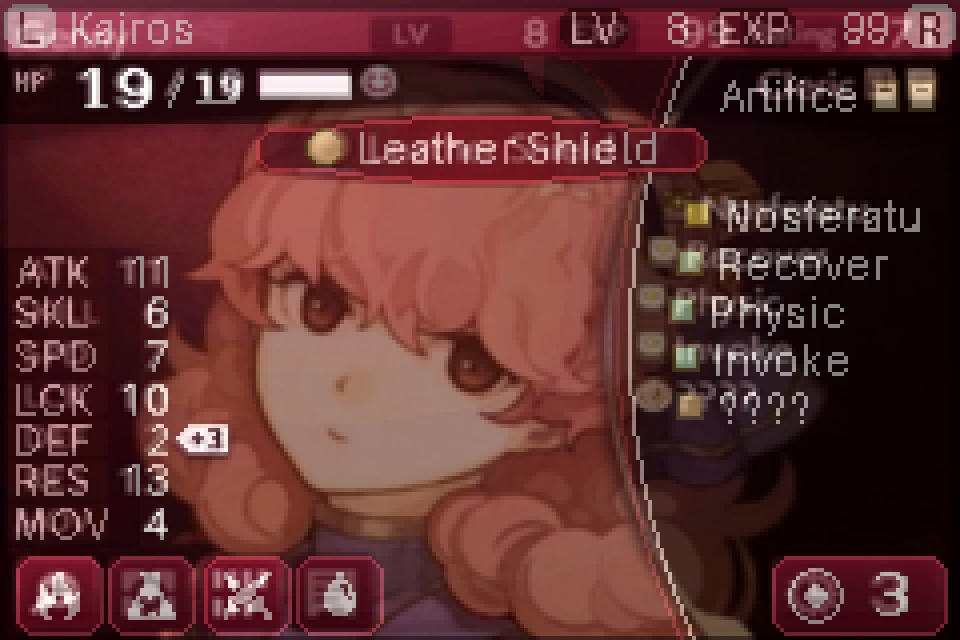
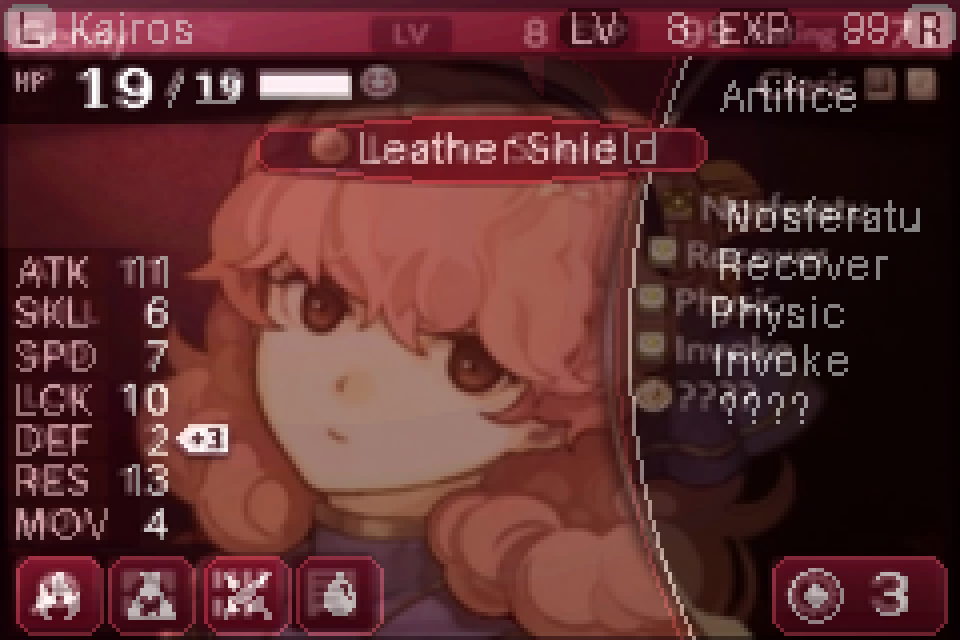
Marcar placeholders de iconos (SIN_ICONOS) y README
Claude-Session: https://claude.ai/code/session_01C4QAM7MwvCQVjJLG12SBSt

Changed region(s): [[0.6875, 0.3125, 0.75, 0.6562], [0.9062, 0.125, 1.0, 0.1875], [0.3125, 0.1875, 0.375, 0.2812]]

diff --git a/gba_status/generar.py b/gba_status/generar.py
@@ -119,7 +119,12 @@ tinta(48, 19, "19", ImageFont.truetype("/usr/share/fonts/truetype/dejavu/DejaVuS
 for i in range(4): d.line([(45 - i, 19 + 2 * i), (45 - i, 20 + 2 * i)], fill=TXT)  # "/" recta 1:2
 d.rectangle([65, 19, 87, 24], fill=TXT)  # barra 100% blanca
 tr(213, 18, "Artifice")
-for x in (218, 227):
+# PLACEHOLDERS de iconos (tienen su propia paleta; con SIN_ICONOS=1 no se dibujan):
+#  - 2 libritos junto a la clase = tipos de arma que puede usar la clase
+#  - circulo del banner = arma/objeto equipado
+#  - cuadraditos en curva = magias/habilidades de la unidad
+ICONOS_ON = not os.environ.get("SIN_ICONOS")
+for x in ((218, 227) if ICONOS_ON else ()):
     d.rectangle([x, 20, x + 6, 27], fill=c(232, 224, 184), outline=c(88, 72, 40))
     d.line([(x + 2, 22), (x + 4, 22)], fill=c(88, 72, 40))
 
@@ -157,7 +162,7 @@ FX0, FX1 = 64, 176                                   # extremos reales de la fig
 blk = 10 + 4 + tw
 bx = FX0 + (FX1 - FX0 + 1 - blk) // 2                 # margen izq == margen der (+-0.5)
 my = (BY0 + BY1) / 2
-d.ellipse([bx, round(my - 5), bx + 9, round(my + 4)], fill=c(208, 176, 128), outline=c(96, 72, 40))
+if ICONOS_ON: d.ellipse([bx, round(my - 5), bx + 9, round(my + 4)], fill=c(208, 176, 128), outline=c(96, 72, 40))
 d.text((bx + 14 - ib[0], round(my - th / 2) - ib[1]), "Leather Shield", font=fs, fill=c(248, 224, 232))
 
 # stats: etiquetas alineadas a la izquierda, valores a la derecha
@@ -184,7 +189,7 @@ for i, (s_, col) in enumerate(skills):
     x = ARCX[y + 2] + DIST  # esquina superior izquierda sobre la linea blanca corrida DIST px
     x += {2: -1, 4: 1}.get(i, 0)  # compensacion optica
     xc = x + 3
-    d.rectangle([x, y + 2, x + 6, y + 8], fill=c(*col), outline=c(88, 72, 40))
+    if ICONOS_ON: d.rectangle([x, y + 2, x + 6, y + 8], fill=c(*col), outline=c(88, 72, 40))
     GUIAS.append((xc, ym))
     d.text((x + 10, y), s_, font=fs, fill=TXT)
 
@@ -223,6 +228,7 @@ d.text((218, 140), "3", font=fb, fill=TXT)
 
 img = img.point(q5)
 suf = "_sin_retrato" if os.environ.get("SIN_RETRATO") else ""
+if not ICONOS_ON: suf += "_sin_iconos"
 img.save(f"estado_gba{suf}.png")
 img.resize((W * 4, H * 4), Image.NEAREST).save(f"estado_gba{suf}_x4.png")
 print(len(img.getcolors(4096)), "colores")

diff --git a/gba_status/README.md b/gba_status/README.md
@@ -1,0 +1,16 @@
+# Pantalla de estado estilo GBA
+
+`python3 generar.py` → `estado_gba.png` (240x160, RGB555) y `estado_gba_x4.png`.
+
+Variables:
+- `SIN_RETRATO=1`: sin el retrato de Kairos (para estudiar la paleta de la UI).
+- `SIN_ICONOS=1`: sin los placeholders de iconos.
+
+`python3 paleta.py <png>` → `paleta.png` / `paleta.txt` (RGB, hex, BGR555).
+
+## Placeholders de iconos (no son parte de la paleta de la UI)
+| Lugar | Significado |
+|---|---|
+| 2 libritos junto a la clase | tipos de arma que puede usar la clase |
+| círculo del banner (Leather Shield) | arma/objeto equipado |
+| cuadraditos en curva | magias/habilidades de la unidad |
